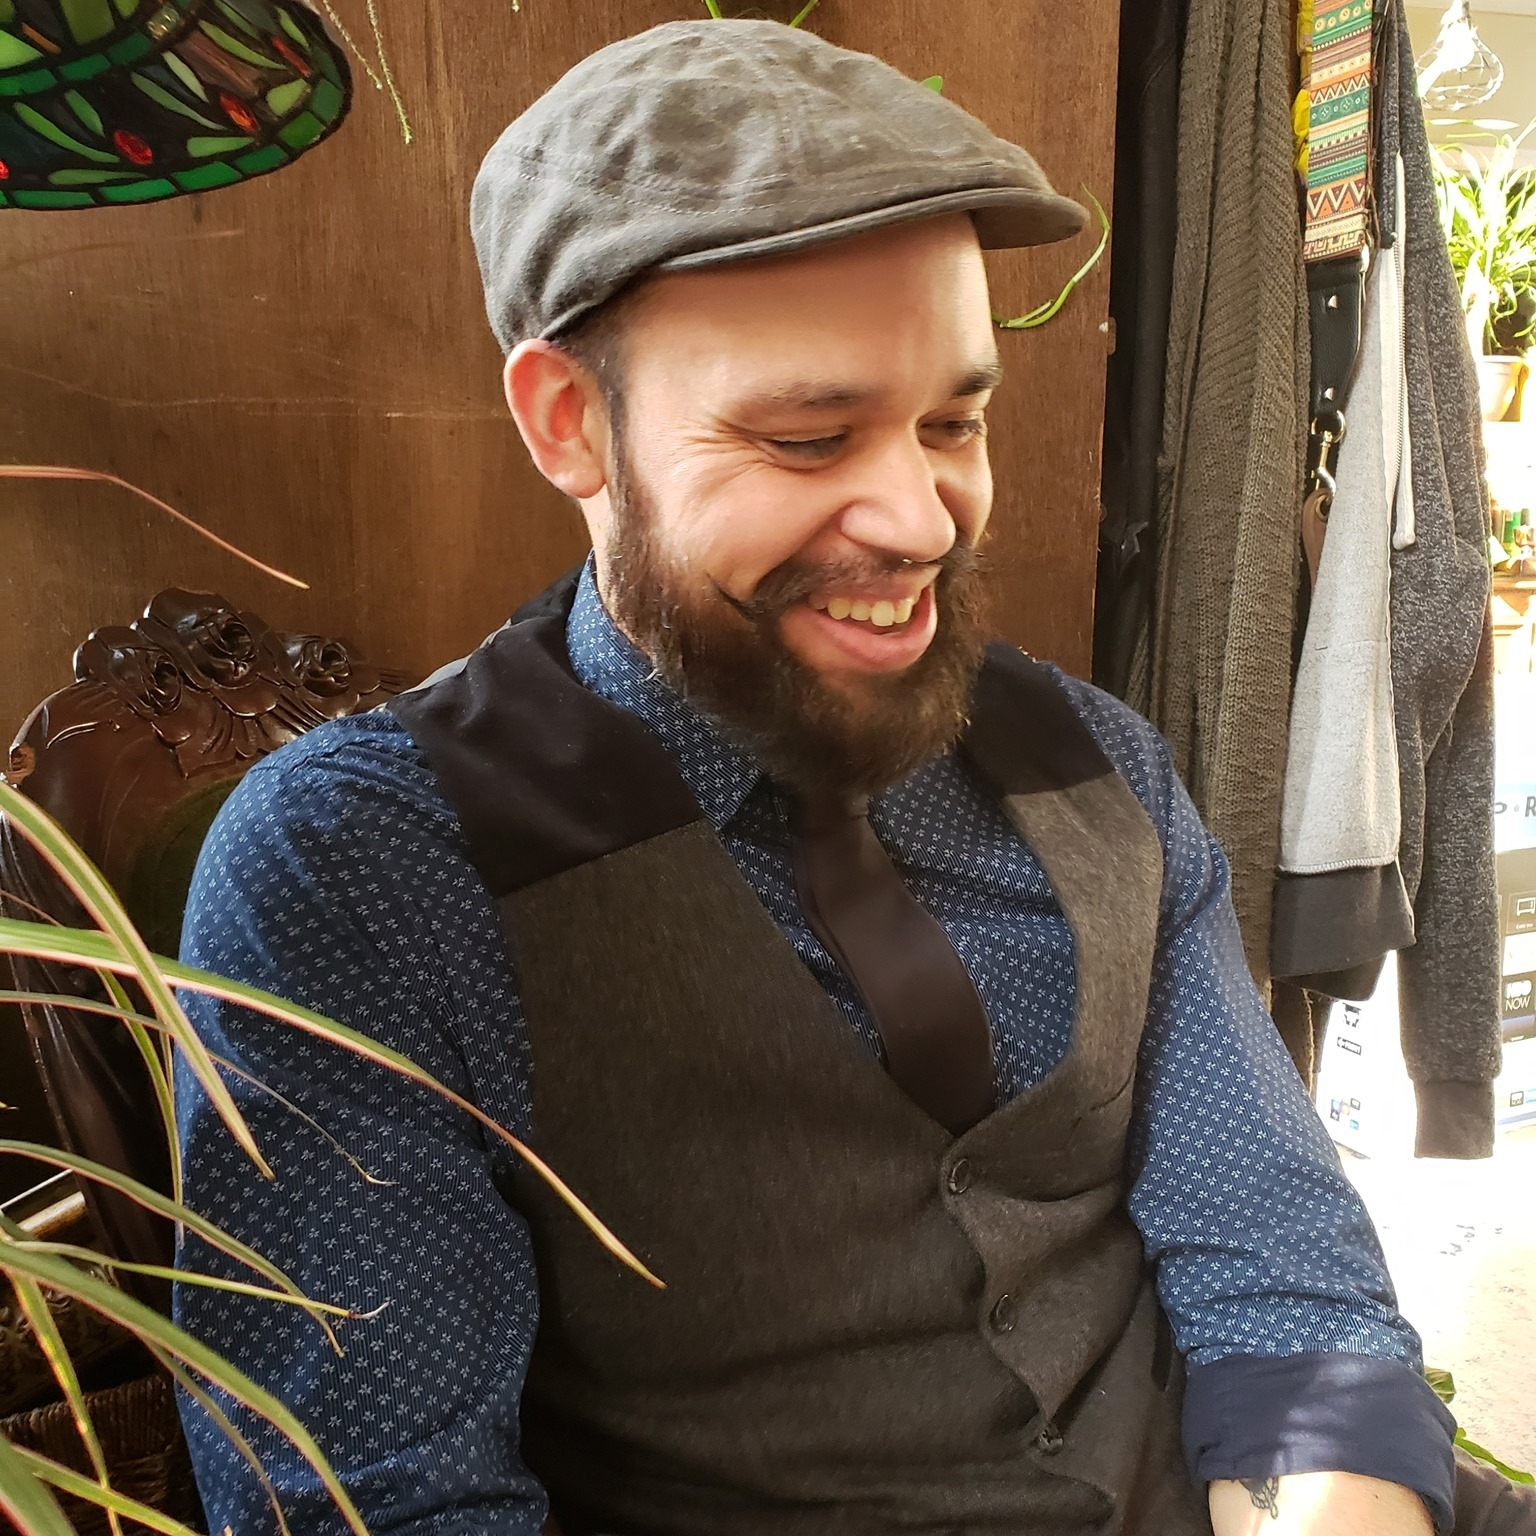
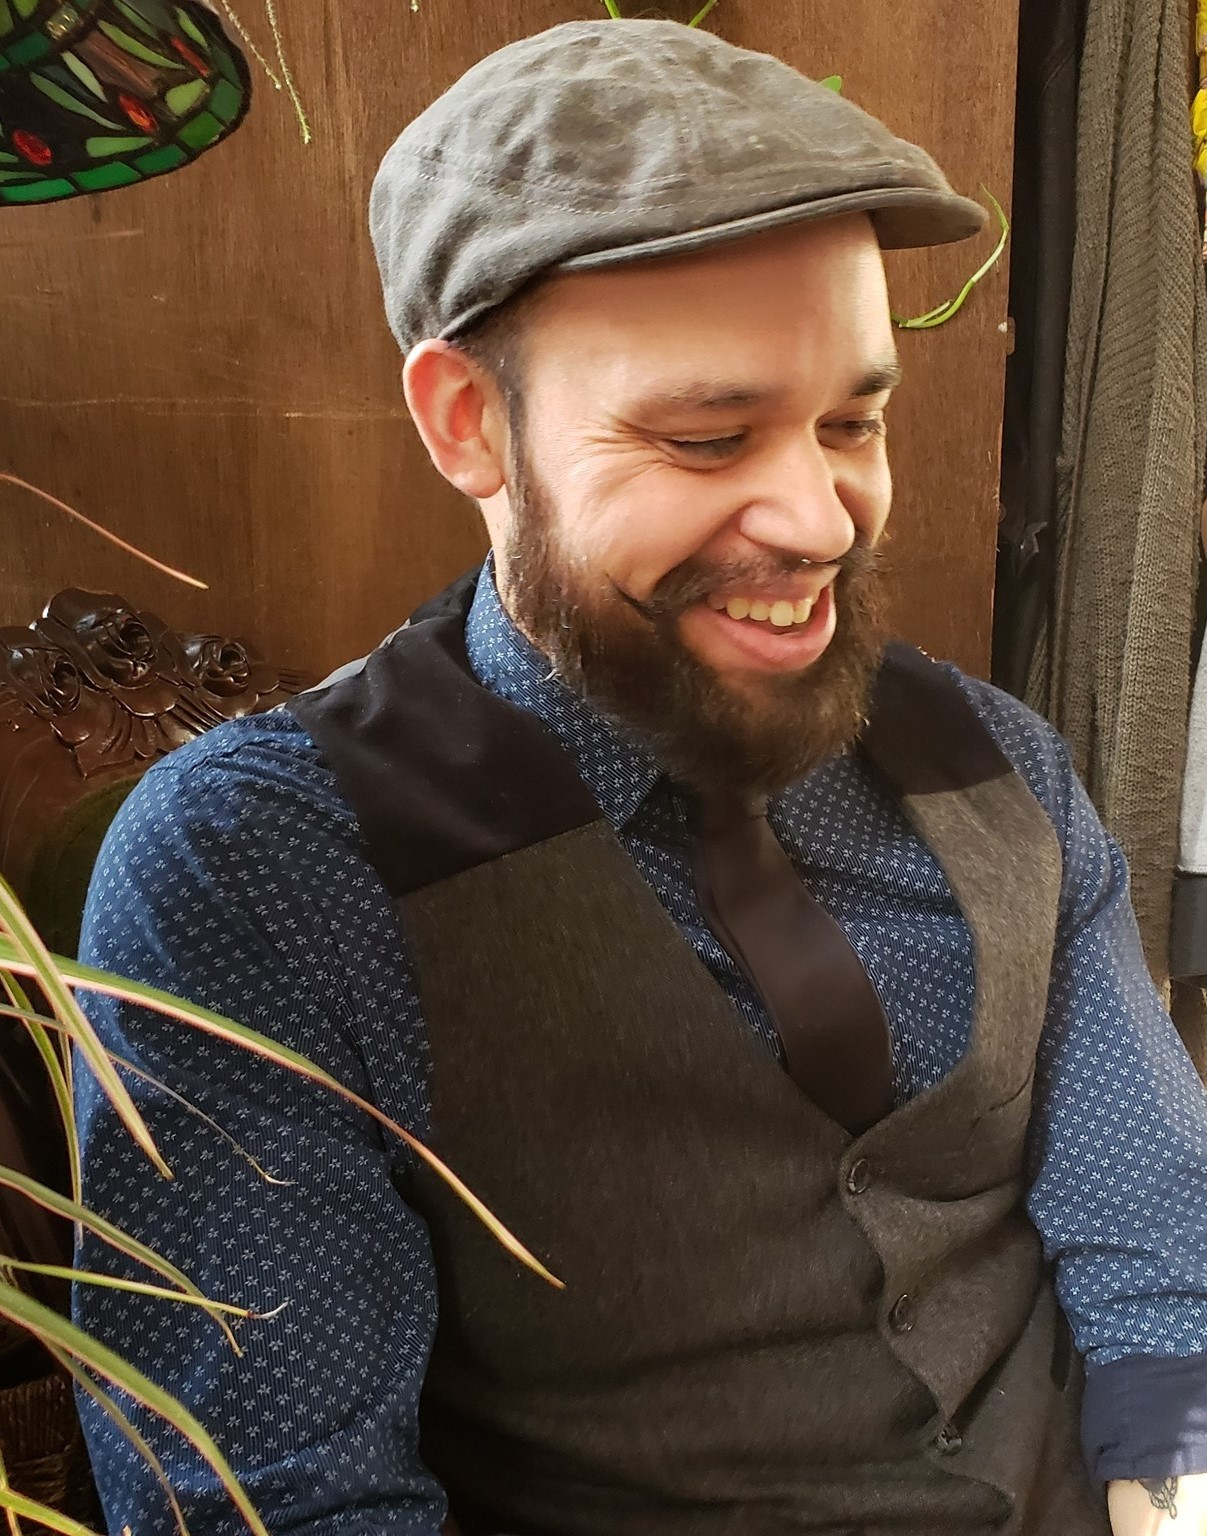
Uploaded additional photos and wrestling with CSS framework

diff --git a/src/Components/AboutMe.js b/src/Components/AboutMe.js
@@ -3,22 +3,35 @@ import headshot from "../Images/Headshot.jpg";
 
 export default function AboutMe() {
   return (
-      <section id="about">
-        <img
-          id="bio-photo"
-          src={headshot}
-          alt="Brian Chapman Headshot"
-        ></img>
-        <h1>About Page</h1>
-        <p>
-          Nunc pharetra finibus est at efficitur. Praesent sed congue diam.
-          Integer gravida dui mauris, ut interdum nunc egestas sed. Aenean sed
-          mollis diam. Nunc aliquet risus ac finibus porta. Nam quis arcu non
-          lectus tincidunt fermentum. Suspendisse aliquet orci porta quam semper
-          imperdiet. Praesent euismod mi justo, faucibus scelerisque risus
-          cursus in. Sed rhoncus mollis diam, sit amet facilisis lectus blandit
-          at.
-        </p>
-      </section>
+    <section id="about" className="section">
+
+        <div className="card">
+          <div className="card-image waves-effect waves-block waves-light">
+          <div className="card-content">
+            <img className="activator"
+              id="bio-photo"
+              src={headshot}
+              alt="Brian Chapman Headshot"
+            ></img>
+             
+            <span className="card-title activator" id="bio-card">Hi! I'm Brian.</span>
+            <div className="card-reveal">
+            <span className="card-title grey-text text-darken-4">Card Title<i className="material-icons right">close</i></span>
+      <p>Here is some more information about this product that is only revealed once clicked on.</p>  
+            <h1>About Page</h1>
+            <p>
+              Nunc pharetra finibus est at efficitur. Praesent sed congue diam.
+              Integer gravida dui mauris, ut interdum nunc egestas sed. Aenean
+              sed mollis diam. Nunc aliquet risus ac finibus porta. Nam quis
+              arcu non lectus tincidunt fermentum. Suspendisse aliquet orci
+              porta quam semper imperdiet. Praesent euismod mi justo, faucibus
+              scelerisque risus cursus in. Sed rhoncus mollis diam, sit amet
+              facilisis lectus blandit at.
+            </p>
+          </div>
+          </div>
+        </div>
+      </div>
+    </section>
   );
 }

diff --git a/src/Components/Contact.js b/src/Components/Contact.js
@@ -41,9 +41,10 @@ export default function Contact() {
   return (
     <section className=" container">
       <div className="row">
-        <form className="col s12">
-          <div className="row">
-            <div className="input-field col s12">
+        <form className="col s12 m7">
+          <div className="card red accent-1">
+            <div className="card-content"></div>
+            <div className="input-field">
               <input placeholder="Placeholder" id="name" type="text">
                 <label for="first_name">Your Name</label>
               </input>
@@ -51,12 +52,12 @@ export default function Contact() {
           </div>
         </form>
         <div className="row">
-          <div className="input-field col s12">
+          <div className="input-field">
             <input id="email" type="email" class="validate"></input>
             <label for="email">Email</label>
           </div>
           <div className="row">
-            <form className="col s12">
+            <form className="col">
               <div className="row">
                 <div className="input-field col s12">
                   <textarea

diff --git a/src/Components/pageContainer.js b/src/Components/pageContainer.js
@@ -4,6 +4,8 @@ import AboutMe from "./AboutMe";
 import Contact from "./Contact";
 import Projects from "./Projects";
 import Resume from "./Resume";
+import Footer from "./Footer";
+
 
 export default function PageContainer() {
   const [currentPage, setCurrentPage] = useState("AboutMe");
@@ -25,12 +27,14 @@ export default function PageContainer() {
 
   return (
     <div>
+
       <NavBar
         currentPage={currentPage}
         handlePageChange={handlePageChange}
       ></NavBar>
 
       {renderPage()}
+      <Footer />
     </div>
   );
 }

diff --git a/public/index.html b/public/index.html
@@ -18,12 +18,11 @@
       href="https://cdnjs.cloudflare.com/ajax/libs/materialize/1.0.0/css/materialize.min.css"
     />
 
-    <script src="https://cdnjs.cloudflare.com/ajax/libs/materialize/1.0.0/js/materialize.min.js"></script>
-
     <title>Brian S Chapman: The React Portfolio Edition</title>
   </head>
   <body>
     <noscript>You need to enable JavaScript to run this app.</noscript>
     <div id="root"></div>
+    <script src="https://cdnjs.cloudflare.com/ajax/libs/materialize/1.0.0/js/materialize.min.js"></script>
   </body>
 </html>

diff --git a/src/Components/Navbar.js b/src/Components/Navbar.js
@@ -8,6 +8,7 @@ function NavBar({ currentPage, handlePageChange }) {
         <a href="#Home" className="brand-logo">
           Brian S. Chapman
         </a>
+        <a href="#" data-target="mobile-demo" class="sidenav-trigger"><i class="material-icons">menu</i></a>
         <ul id="nav-mobile" className="right hide-on-med-and-down">
           <li>
             <a

diff --git a/src/index.css b/src/index.css
@@ -3,8 +3,21 @@ body {
     background-color: #ebe1d0 ; color: #0b2e38;
   }
   
+  #bio-photo {
+    width: 300px;
+    border-radius: 5px;
 
-  a, li {
-    font-size: 30px;
   }
+ 
+  
 
+
+  /* Color palette to mess with */
+  
+  section {
+    color: #264653;
+    color: #2A9D8F;
+    color: #E9C46A;
+    color: #F4A261;
+    color: #E76F51;
+  }

diff --git a/src/App.js b/src/App.js
@@ -1,15 +1,14 @@
-import React, { useState } from 'react';
+import React from 'react';
 import PageContainer from './Components/pageContainer';
-import Footer from './Components/Footer'
-
+import '../src/index.css'
 
  const App = () => {
  return ( 
   <main>
    <PageContainer />
-    <Footer />
     </main>
  );
 }
+
 
 export default App;
